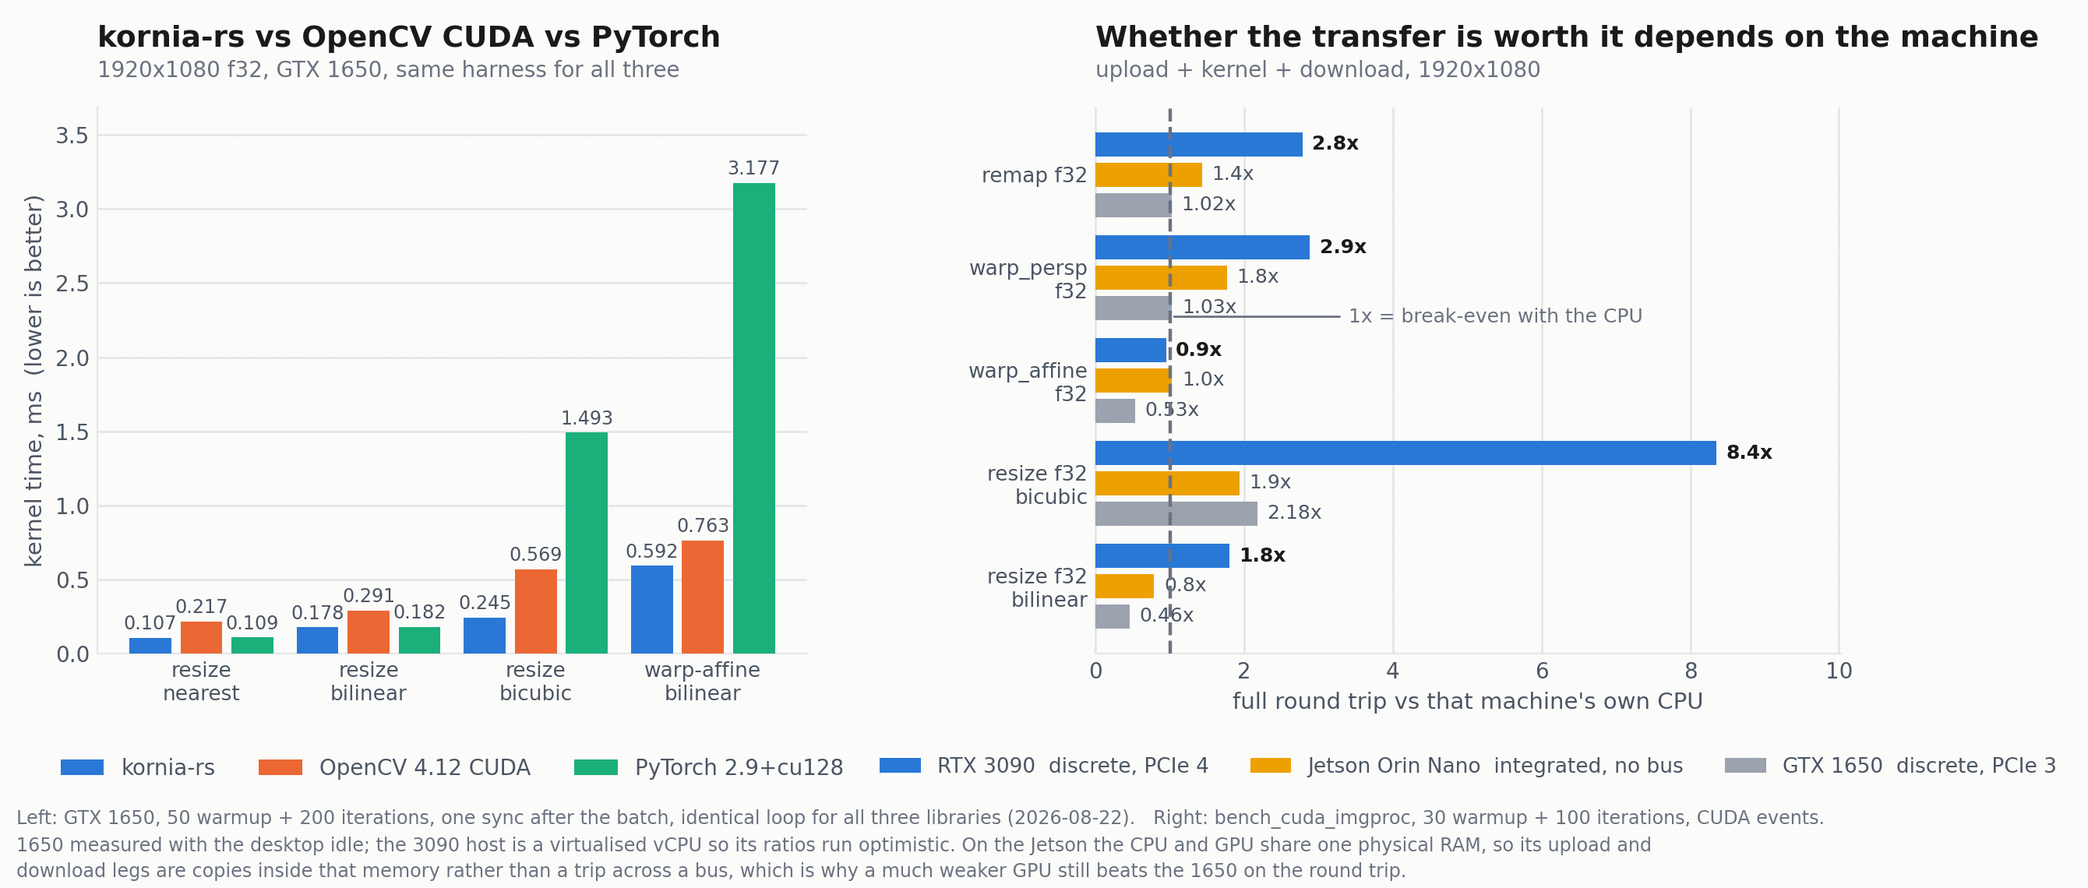
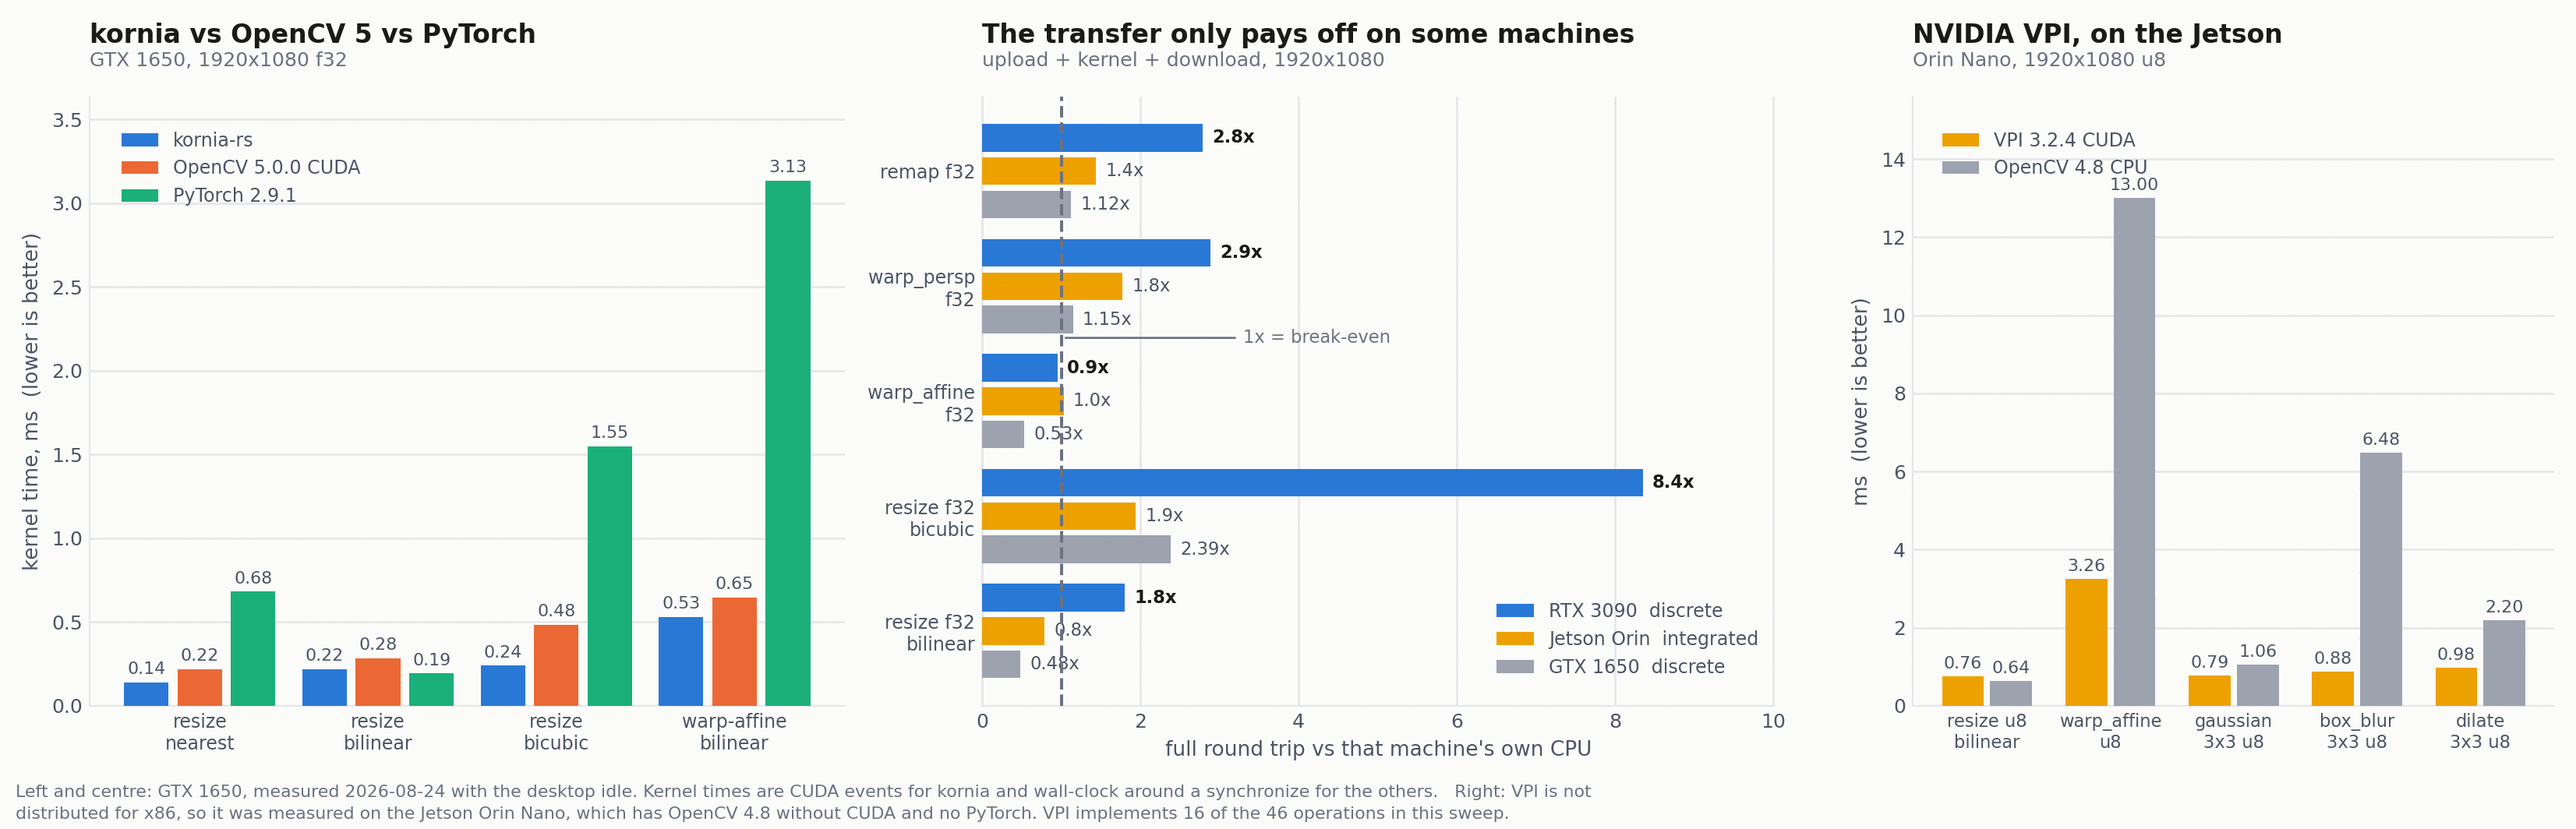
post: OpenCV 5 numbers, VPI comparison, all four PRs merged

diff --git a/_posts/2026-08-22-gsoc-2026-gpu-acceleration-kornia-rs.md b/_posts/2026-08-22-gsoc-2026-gpu-acceleration-kornia-rs.md
@@ -102,24 +102,49 @@ broke on image sizes I hadn't tested.
 
 ## Results
 
-![]({{ site.baseurl }}/images/gsoc2026-gpu/benchmarks.png "Kernel times against OpenCV CUDA and PyTorch, and round-trip on two cards")
+![]({{ site.baseurl }}/images/gsoc2026-gpu/benchmarks.png "kornia against OpenCV 5 and PyTorch, round-trip on three machines, and VPI on the Jetson")
 
-GTX 1650, against OpenCV 4.12 CUDA and PyTorch 2.9. All three measured on the
-same card with the same loop: 50 warmup, 200 timed runs, one sync at the end.
+GTX 1650, against OpenCV 5.0.0 CUDA and PyTorch 2.9.1, all measured on the same
+card on the same day with the desktop idle.
 
-Resize 1920x1080 to 960x540, and warp-affine at 45 degrees, kernel time:
+Resize 1920x1080 to 960x540, and warp-affine at 30 degrees, kernel time:
 
-| Operation | kornia-rs | cv2 CUDA | PyTorch | vs cv2 | vs PyTorch |
+| Operation | kornia-rs | OpenCV 5 CUDA | PyTorch | vs OpenCV | vs PyTorch |
 | --- | ---: | ---: | ---: | ---: | ---: |
-| resize nearest | 0.107 ms | 0.217 ms | 0.109 ms | **2.0x** | 1.0x |
-| resize bilinear | 0.178 ms | 0.291 ms | 0.182 ms | **1.6x** | 1.0x |
-| resize bicubic | 0.245 ms | 0.569 ms | 1.493 ms | **2.3x** | **6.1x** |
-| warp-affine | 0.592 ms | 0.763 ms | 3.177 ms | 1.3x | **5.4x** |
+| resize nearest | 0.14 ms | 0.22 ms | 0.68 ms | **1.6x** | **4.9x** |
+| resize bilinear | 0.22 ms | 0.28 ms | 0.19 ms | **1.3x** | 0.9x |
+| resize bicubic | 0.24 ms | 0.48 ms | 1.55 ms | **2.0x** | **6.5x** |
+| warp-affine | 0.53 ms | 0.65 ms | 3.13 ms | 1.2x | **5.9x** |
 
-We beat OpenCV CUDA on all of them, tie PyTorch on the cheap ones and pull ahead
-on the expensive ones. The PyTorch gap is biggest on warp because
+We beat OpenCV 5 CUDA on all of them. PyTorch is level on bilinear and well
+behind everywhere else, and the gap is biggest on warp because
 `F.affine_grid` plus `F.grid_sample` builds a whole coordinate grid tensor every
 call, and we build nothing.
+
+My mentor asked for this to cover more than OpenCV, which turned out to be a good
+push. Comparing against one library tells you whether you beat that library.
+Comparing against three tells you where you actually sit.
+
+### What about NVIDIA VPI?
+
+VPI is NVIDIA's own vision library, and it is the strongest thing in this space
+on Jetson hardware. It is not distributed for x86 through the CUDA repo, so I
+measured it on the Orin Nano, against the OpenCV 4.8 CPU build that ships there:
+
+| Operation, 1080p u8 | VPI 3.2.4 | OpenCV 4.8 CPU | VPI speedup |
+| --- | ---: | ---: | ---: |
+| resize bilinear | 0.76 ms | 0.64 ms | 0.8x |
+| warp-affine | 3.26 ms | 13.00 ms | **4.0x** |
+| gaussian 3x3 | 0.79 ms | 1.06 ms | 1.3x |
+| box blur 3x3 | 0.88 ms | 6.48 ms | **7.4x** |
+| dilate 3x3 | 0.98 ms | 2.20 ms | **2.2x** |
+
+VPI is fast where you would expect a fixed-function vision library to be fast.
+It is also narrow: **16 of the 46 operations in my sweep exist in VPI at all.**
+No cubic interpolation. No Laplacian. Filters want single-channel u8 rather than
+RGB, and morphology wants a 2D kernel array rather than a size. That is a
+reasonable trade for a library aimed at embedded pipelines, but it does mean VPI
+and kornia are not really substitutes for each other.
 
 Colour conversion hits 170 GB/s at 1080p, which is 89% of what the card can do.
 That's the number I like most, because it isn't a comparison with anyone. It just
@@ -286,11 +311,11 @@ Every pull request, in order:
 | [#1066](https://github.com/kornia/kornia-rs/pull/1066) | Post-merge review fixes on remap |
 | [#1068](https://github.com/kornia/kornia-rs/pull/1068) | u8 remap with fixed-point quantisation, byte-exact on CPU and CUDA |
 
-Four are still open at the time of writing:
+These four merged on 2026-08-24, just before I wrote this up:
 
 | PR | What it does |
 | --- | --- |
-| [#1115](https://github.com/kornia/kornia-rs/pull/1115) | Benchmarks for remap, colour conversion and the unified-memory path |
+| [#1115](https://github.com/kornia/kornia-rs/pull/1115) | Write-combined pinned allocator, plus benchmarks for remap, colour and unified memory |
 | [#1116](https://github.com/kornia/kornia-rs/pull/1116) | Laplacian and integral filters with GPU support |
 | [#1121](https://github.com/kornia/kornia-rs/pull/1121) | Two optimizations to the existing CUDA SIFT kernels: register-tiling the vertical blur, and warp-aggregating the descriptor histogram atomics so lanes hitting the same bin combine before the atomic |
 | [#1122](https://github.com/kornia/kornia-rs/pull/1122) | Element-wise and reduction tensor ops dispatched on `MemoryDomain`, with in-place variants |
